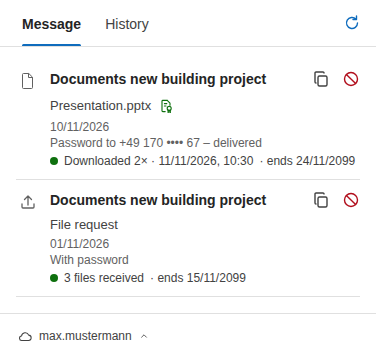
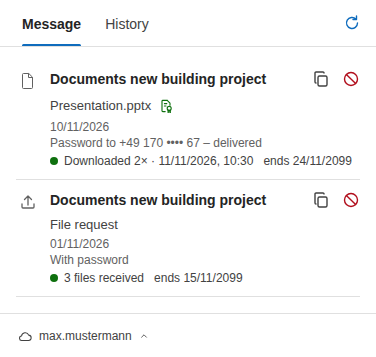
Encrypted note: × removes the file; history line tidy (#107)
* Encrypted note: "×" removes the file, the note follows the list; history line tidy

- The note about an encrypted file goes when the file is removed, and its "×"
  removes the encrypted file (attachment from the mail, picked file from the list).
- History: no dot before "endet …", kept on one line; an unsent link shows no
  "Kennwort noch nicht gesendet" above the bold "Nicht gesendet" line.

* README pictures; no gap before 'Endet' for a message

* README picture of the history

---------

Changed region(s): [[0.4096, 0.7395, 0.6729, 0.8011], [0.7021, 0.4314, 0.9654, 0.4622]]

diff --git a/addin/src/taskpane/taskpane.ts b/addin/src/taskpane/taskpane.ts
@@ -74,6 +74,7 @@ const encryptedField = $<HTMLDivElement>("encrypted-field");
 const encryptedText = $<HTMLParagraphElement>("encrypted-text");
 const encryptedConfirm = $<HTMLInputElement>("encrypted-confirm");
 const encryptedConfirmRow = $<HTMLLabelElement>("encrypted-confirm-row");
+const encryptedDismiss = $<HTMLButtonElement>("encrypted-dismiss");
 /** Names of the encrypted files the note was shown for ("" = none). */
 let encryptedShown = "";
 const channelSelect = $<HTMLSelectElement>("password-channel");
@@ -577,7 +578,8 @@ async function renderAttachments() {
     });
   }
   noAttachments.hidden = attachments.length > 0 || pickedFiles.length > 0;
-  renderSubmit();
+  // The note about encrypted files follows the list (an attachment removed in Outlook takes its note with it).
+  void renderEncrypted();
 }
 
 function renderPicked() {
@@ -599,7 +601,8 @@ function renderPicked() {
     pickedFiles.forEach((file, i) => void showLabel(pickedList.children[i] as HTMLElement, labelOf(file, file.name, async () => file)));
   }
   noAttachments.hidden = attachmentList.childElementCount > 0 || pickedFiles.length > 0;
-  renderSubmit();
+  // A file removed with its "×" takes its note with it.
+  void renderEncrypted();
 }
 
 /** The files the rows of #picked currently show (their checkbox values are indexes into it). */
@@ -1700,6 +1703,29 @@ async function knownSelectionLabels() {
 encryptedConfirm.addEventListener("change", () => renderSubmit());
 
 /**
+ * "×" on the note – "Nein": the encrypted files are removed – a file chosen in the pane from the list, an attachment
+ * from the mail – and the note goes with them.
+ */
+encryptedDismiss.addEventListener("click", async () => {
+  const isEncrypted = async (key: string | File | undefined) => Boolean(key && labelCache.has(key) && (await labelCache.get(key)!)?.encrypted);
+  const attachments = Array.from(attachmentList.querySelectorAll<HTMLInputElement>("input:checked")).map((box) => box.value);
+  const picked = Array.from(pickedList.querySelectorAll<HTMLInputElement>("input:checked")).map((box) => pickedFiles[Number(box.value)]);
+  try {
+    for (const id of attachments) {
+      if (await isEncrypted(id)) await officeAsync<void>((cb) => composeItem().removeAttachmentAsync(id, cb));
+    }
+  } catch (err) {
+    setStatus(t("labels.removeFailed", { error: errorMessage(err) }), "error");
+  }
+  const encryptedPicked = new Set<File>();
+  for (const file of picked) if (await isEncrypted(file)) encryptedPicked.add(file);
+  pickedFiles = pickedFiles.filter((file) => !encryptedPicked.has(file));
+  renderPicked();
+  await renderAttachments().catch(() => undefined);
+  submitButton.focus();
+});
+
+/**
  * After inserting: the mail gets the highest label of its files if its own is lower (never lowered) – LABEL_POLICY
  * "inherit" sets it and says so, "suggest" offers "Übernehmen". Only labels of the user's own catalog (other
  * organisations' labels and a missing catalog: nothing to set). Returns the sentence for the message, if any.
@@ -2626,10 +2652,12 @@ function shareRow(share: ShareItem): HTMLElement {
     ? passwordShort(share.password)
     : share.protected === false
       ? t("proofs.withoutPassword")
-      : t(share.unsent ? "proofs.passwordPending" : "shares.withPasswordLine");
+      : t("shares.withPasswordLine");
+  // Not sent yet: the bold line below says so – no "Kennwort noch nicht gesendet" on top of it.
+  passwordLine.parentElement!.hidden = Boolean(share.unsent && !share.password && share.protected !== false);
   if (share.expiration) {
     row.querySelector<HTMLElement>(".share-ends")!.textContent =
-      `· ${t("proofs.endsOn", { date: formatDate(`${share.expiration}T12:00:00`) })}`; // the state line has its own gap
+      t("proofs.endsOn", { date: formatDate(`${share.expiration}T12:00:00`) }); // set apart from the state by the line's gap
   }
   passwordLine.title = share.password ? passwordText(share.password) : "";
   passwordLine.classList.toggle("failed", share.password?.status === "failed");
@@ -2638,7 +2666,10 @@ function shareRow(share: ShareItem): HTMLElement {
   // A message: no download state (Vaultwarden does not report it), no link to copy or insert again (no key kept).
   if (share.kind === "message") {
     // No download state – only when it ends.
-    row.querySelector<HTMLElement>(".state-text")!.textContent = "";
+    const stateText = row.querySelector<HTMLElement>(".state-text")!;
+    stateText.textContent = "";
+    stateText.hidden = true; // no empty gap before "Endet …"
+    row.querySelector<HTMLElement>(".share-ends")!.style.marginLeft = "0";
     const ends = row.querySelector<HTMLElement>(".share-ends")!;
     ends.textContent = share.expiration ? t("shares.endsOnly", { date: formatDate(`${share.expiration}T12:00:00`) }) : "";
     row.querySelector<HTMLElement>(".share-state")!.hidden = !share.expiration;

diff --git a/addin/e2e/taskpane.e2e.ts b/addin/e2e/taskpane.e2e.ts
@@ -1387,6 +1387,7 @@ test("Verlauf: shows the state of each link and revokes after confirmation", asy
   await expect(rows.nth(0).locator(".share-password")).toHaveText("Kennwort an +49 170 •••• 67 – zugestellt");
   await expect(rows.nth(0).locator(".share-password")).toHaveAttribute("title", "Kennwort per SMS an +49 170 •••• 67 – zugestellt am 10.11.2026, 11:00 Uhr");
   await expect(rows.nth(0).locator(".share-state")).toContainText("endet 24.11.2099");
+  await expect(rows.nth(0).locator(".share-ends")).toHaveText("endet 24.11.2099"); // no dot before it
   await expect(rows.nth(1).locator(".share-sent")).toHaveText("12.11.2099"); // always dd.mm.yyyy
   await expect(rows.nth(1).locator(".share-password")).toHaveText("Ohne Kennwort");
   await expect(rows.nth(2).locator(".share-password")).toHaveText("Mit Kennwort");
@@ -1486,6 +1487,9 @@ test("Verlauf: links of a mail not sent (e.g. a discarded draft) say so and when
   await expect(rows.nth(2).locator(".share-unsent")).toHaveText("Kennwort noch nicht verschickt.");
   await expect(rows.nth(2).locator(".state-text")).toContainText("2× heruntergeladen");
   await expect(rows.nth(3).locator(".share-unsent")).toBeHidden();
+  // Not sent: the bold line says it – no extra "Kennwort noch nicht gesendet" line above it.
+  await expect(rows.nth(0).locator(".share-password")).toBeHidden();
+  await expect(rows.nth(3).locator(".share-password")).toBeVisible();
   await expectAccessible(page);
 });
 
@@ -2067,12 +2071,25 @@ test("Labels: a protected file shows a note below the list and needs a confirmat
   await expect(page.locator("#encrypted-field")).toBeVisible();
   expect(calls.some((c) => c.path === "/api/uploads")).toBe(false);
 
+
   await page.locator("#encrypted-confirm-row .checkbox-text").click();
   await expect(page.locator("#encrypted-confirm")).toBeChecked();
   await expect(page.locator("#submit")).toBeEnabled();
   await page.click("#submit");
   await expect(page.locator("#status")).toContainText("Der Link wurde eingefügt.");
   expect(calls.some((c) => c.path === "/api/uploads")).toBe(true);
+});
+
+test("Labels: the \"×\" on the note removes the encrypted file from the mail – and the note goes with it", async ({ page }) => {
+  await openTaskpane(page, { attachments: [attachment("a1", "Vertrag.pfile", 2 * MiB), attachment("a2", "Plan.pdf", 2 * MiB)] });
+  await expect(page.locator("#encrypted-field")).toBeVisible();
+  await expect(page.locator("#encrypted-dismiss")).toHaveAttribute("aria-label", "Datei entfernen – nicht als Link senden");
+  await page.click("#encrypted-dismiss");
+  expect((await officeLog(page)).removed).toEqual(["a1"]); // only the encrypted one
+  await expect(page.locator("#attachments .list-item")).toHaveCount(1);
+  await expect(page.locator("#attachments .file-name")).toHaveText("Plan.pdf");
+  await expect(page.locator("#encrypted-field")).toBeHidden();
+  await expect(page.locator("#submit")).toBeEnabled();
 });
 
 test("Labels: without Outlook's catalog the names and priority come from the tenant (Graph)", async ({ page }) => {

diff --git a/addin/src/taskpane/taskpane.html b/addin/src/taskpane/taskpane.html
@@ -89,10 +89,16 @@
                  a note right below the list; with "warn" the box must be ticked before the files can be inserted, with
                  "block" they cannot be. -->
             <div class="field encrypted-field" id="encrypted-field" hidden>
-              <p class="label encrypted-title">
-                <svg class="icon" viewBox="0 0 16 16" aria-hidden="true"><path d="M8 1.8 14.6 13.5H1.4Z" fill="none" stroke="currentColor" stroke-linejoin="round"/><path d="M8 6.2v3.6M8 11.6v.3" stroke="currentColor" stroke-linecap="round"/></svg>
-                <span>%%t:addin.labels.encryptedTitle%%</span>
-              </p>
+              <div class="encrypted-head">
+                <p class="label encrypted-title">
+                  <svg class="icon" viewBox="0 0 16 16" aria-hidden="true"><path d="M8 1.8 14.6 13.5H1.4Z" fill="none" stroke="currentColor" stroke-linejoin="round"/><path d="M8 6.2v3.6M8 11.6v.3" stroke="currentColor" stroke-linecap="round"/></svg>
+                  <span>%%t:addin.labels.encryptedTitle%%</span>
+                </p>
+                <!-- "Nein": leaves the encrypted file(s) out – unticks them, the note goes. -->
+                <button type="button" id="encrypted-dismiss" class="btn btn-icon btn-subtle" title="%%t:addin.labels.dismiss%%" aria-label="%%t:addin.labels.dismiss%%">
+                  <svg class="icon" viewBox="0 0 20 20" aria-hidden="true"><path d="M5.5 5.5l9 9m0-9-9 9" fill="none" stroke="currentColor" stroke-width="1.5" stroke-linecap="round"/></svg>
+                </button>
+              </div>
               <p class="hint" id="encrypted-text"></p>
               <label class="checkbox" id="encrypted-confirm-row">
                 <input type="checkbox" id="encrypted-confirm" aria-describedby="encrypted-text" />

diff --git a/addin/src/taskpane/taskpane.css b/addin/src/taskpane/taskpane.css
@@ -376,6 +376,11 @@ a:hover { color: var(--brand-fg-hover); text-decoration: underline; }
 .progress-track { height: 2px; margin-bottom: 12px; background: var(--stroke2); border-radius: 1px; overflow: hidden; }
 .progress-bar { height: 100%; width: 0; background: var(--brand-bg); transition: width 0.2s ease; }
 
+/* The note about an encrypted file: its "×" on the right of the title leaves the file out. */
+.encrypted-head { display: flex; align-items: flex-start; justify-content: space-between; gap: 8px; }
+.encrypted-head .encrypted-title { margin: 0; }
+.encrypted-head .btn-icon { margin: -4px -6px 0 0; }
+
 /* --- Radio buttons (Fluent 2) --------------------------------------------------- */
 .radio { position: relative; display: flex; align-items: center; gap: 8px; padding: 4px 0; cursor: pointer; }
 .radio input { position: absolute; opacity: 0; width: 16px; height: 16px; margin: 0; }
@@ -521,6 +526,8 @@ button.share-title:focus-visible { outline: 2px solid var(--focus); outline-offs
 .share-password.failed { color: var(--danger-fg); }
 .share-unsent { color: var(--fg2); font-weight: 600; }
 .share-state { display: flex; align-items: center; gap: 6px; font-size: 12px; line-height: 16px; margin-top: 2px; color: var(--fg2); }
+/* "endet 02.12.2026" after the state, kept on one line. */
+.share-state .share-ends { white-space: nowrap; margin-left: 4px; }
 .share-state .dot-state { width: 8px; height: 8px; border-radius: 50%; background: var(--stroke1); flex: none; }
 .share-state.done .dot-state { background: var(--success-fg); }
 /* Icon buttons at the right of the name; the revoke button shows "Wirklich?" as text until confirmed. */

diff --git a/README.md b/README.md
@@ -294,7 +294,7 @@ deployed again.
 | `ATTACHMENT_POLICY` | `suggest` | `suggest`: ask once, "Send Anyway" possible · `enforce`: large attachments only via CloudShare |
 | `ATTACHMENT_POLICY_INTERNAL` | like `ATTACHMENT_POLICY` | The same for mails whose recipients are **all internal** (`INTERNAL_DOMAINS`), e.g. `enforce` outside and `suggest` inside |
 | `LABEL_POLICY` | `inherit` | Sensitivity labels (Microsoft Purview) of shared files: `inherit` – the message gets the highest label of its files (never lowered) and the pane says so · `suggest` – the pane only offers it ("Apply") · `off` – labels are ignored. The label shows under the file name; see [Sensitivity labels](#sensitivity-labels) |
-| `LABEL_ENCRYPTED` | `warn` | Files encrypted by their label (recipients outside the organisation can usually not open them): `warn` – a note right below the file list, inserting only after "Send as a link anyway" is ticked · `block` – not shared as a link · `allow` – no question |
+| `LABEL_ENCRYPTED` | `warn` | Files encrypted by their label (recipients outside the organisation can usually not open them): `warn` – a note right below the file list, inserting only after "Send as a link anyway" is ticked (its "×" removes the file from the message instead) · `block` – not shared as a link · `allow` – no question |
 | `SHARE_EXPIRE_DAYS` / `SHARE_MAX_EXPIRE_DAYS` | `14` / `90` | Link validity: default / maximum. A link with password lasts at most 30 days: only as long as its password in Vaultwarden, which keeps it until then so it can be sent again |
 | `SEND_MAX_ACCESS_COUNT` / `SEND_MAX_ACCESS_LIMIT` | `3` / `20` | How often the password link opens: default / maximum |
 | `SEND_EXPIRE_DAYS` / `SEND_MAX_EXPIRE_DAYS` | `5` / `30` | Days the password link and confidential messages stay available: default / maximum the sender may choose (at most 30 – Vaultwarden keeps Sends at most 31 days) |

diff --git a/docs/architecture.md b/docs/architecture.md
@@ -524,7 +524,9 @@ longer attached, so the add-in does it itself (`addin/src/taskpane/labels.ts`, n
   mail's is lower – never lowered (`labelForMail`; `LABEL_POLICY=inherit`), or offered with "Übernehmen" (`suggest`).
 - **Encrypted files** (`renderEncrypted`): as soon as a ticked file is known to be encrypted, a note appears right
   below the file list (`#encrypted-field`); `LABEL_ENCRYPTED=warn` – the insert button stays off until "Trotzdem als Link senden"
-  is ticked (`insertReady`), `block` – it stays off, `allow` – no note. Large attachments are read only when inserted;
+  is ticked (`insertReady`), `block` – it stays off, `allow` – no note. The note's "×" (`#encrypted-dismiss`) removes the
+  encrypted files instead (attachments from the mail, files chosen in the pane from the list); the note follows the list (`renderAttachments` / `renderPicked` call `renderEncrypted`), so a
+  file removed from the mail takes its note with it. Large attachments are read only when inserted;
   then the same check runs before any upload.
 - No extra permission: the manifest already has `ReadWriteItem`.
 
